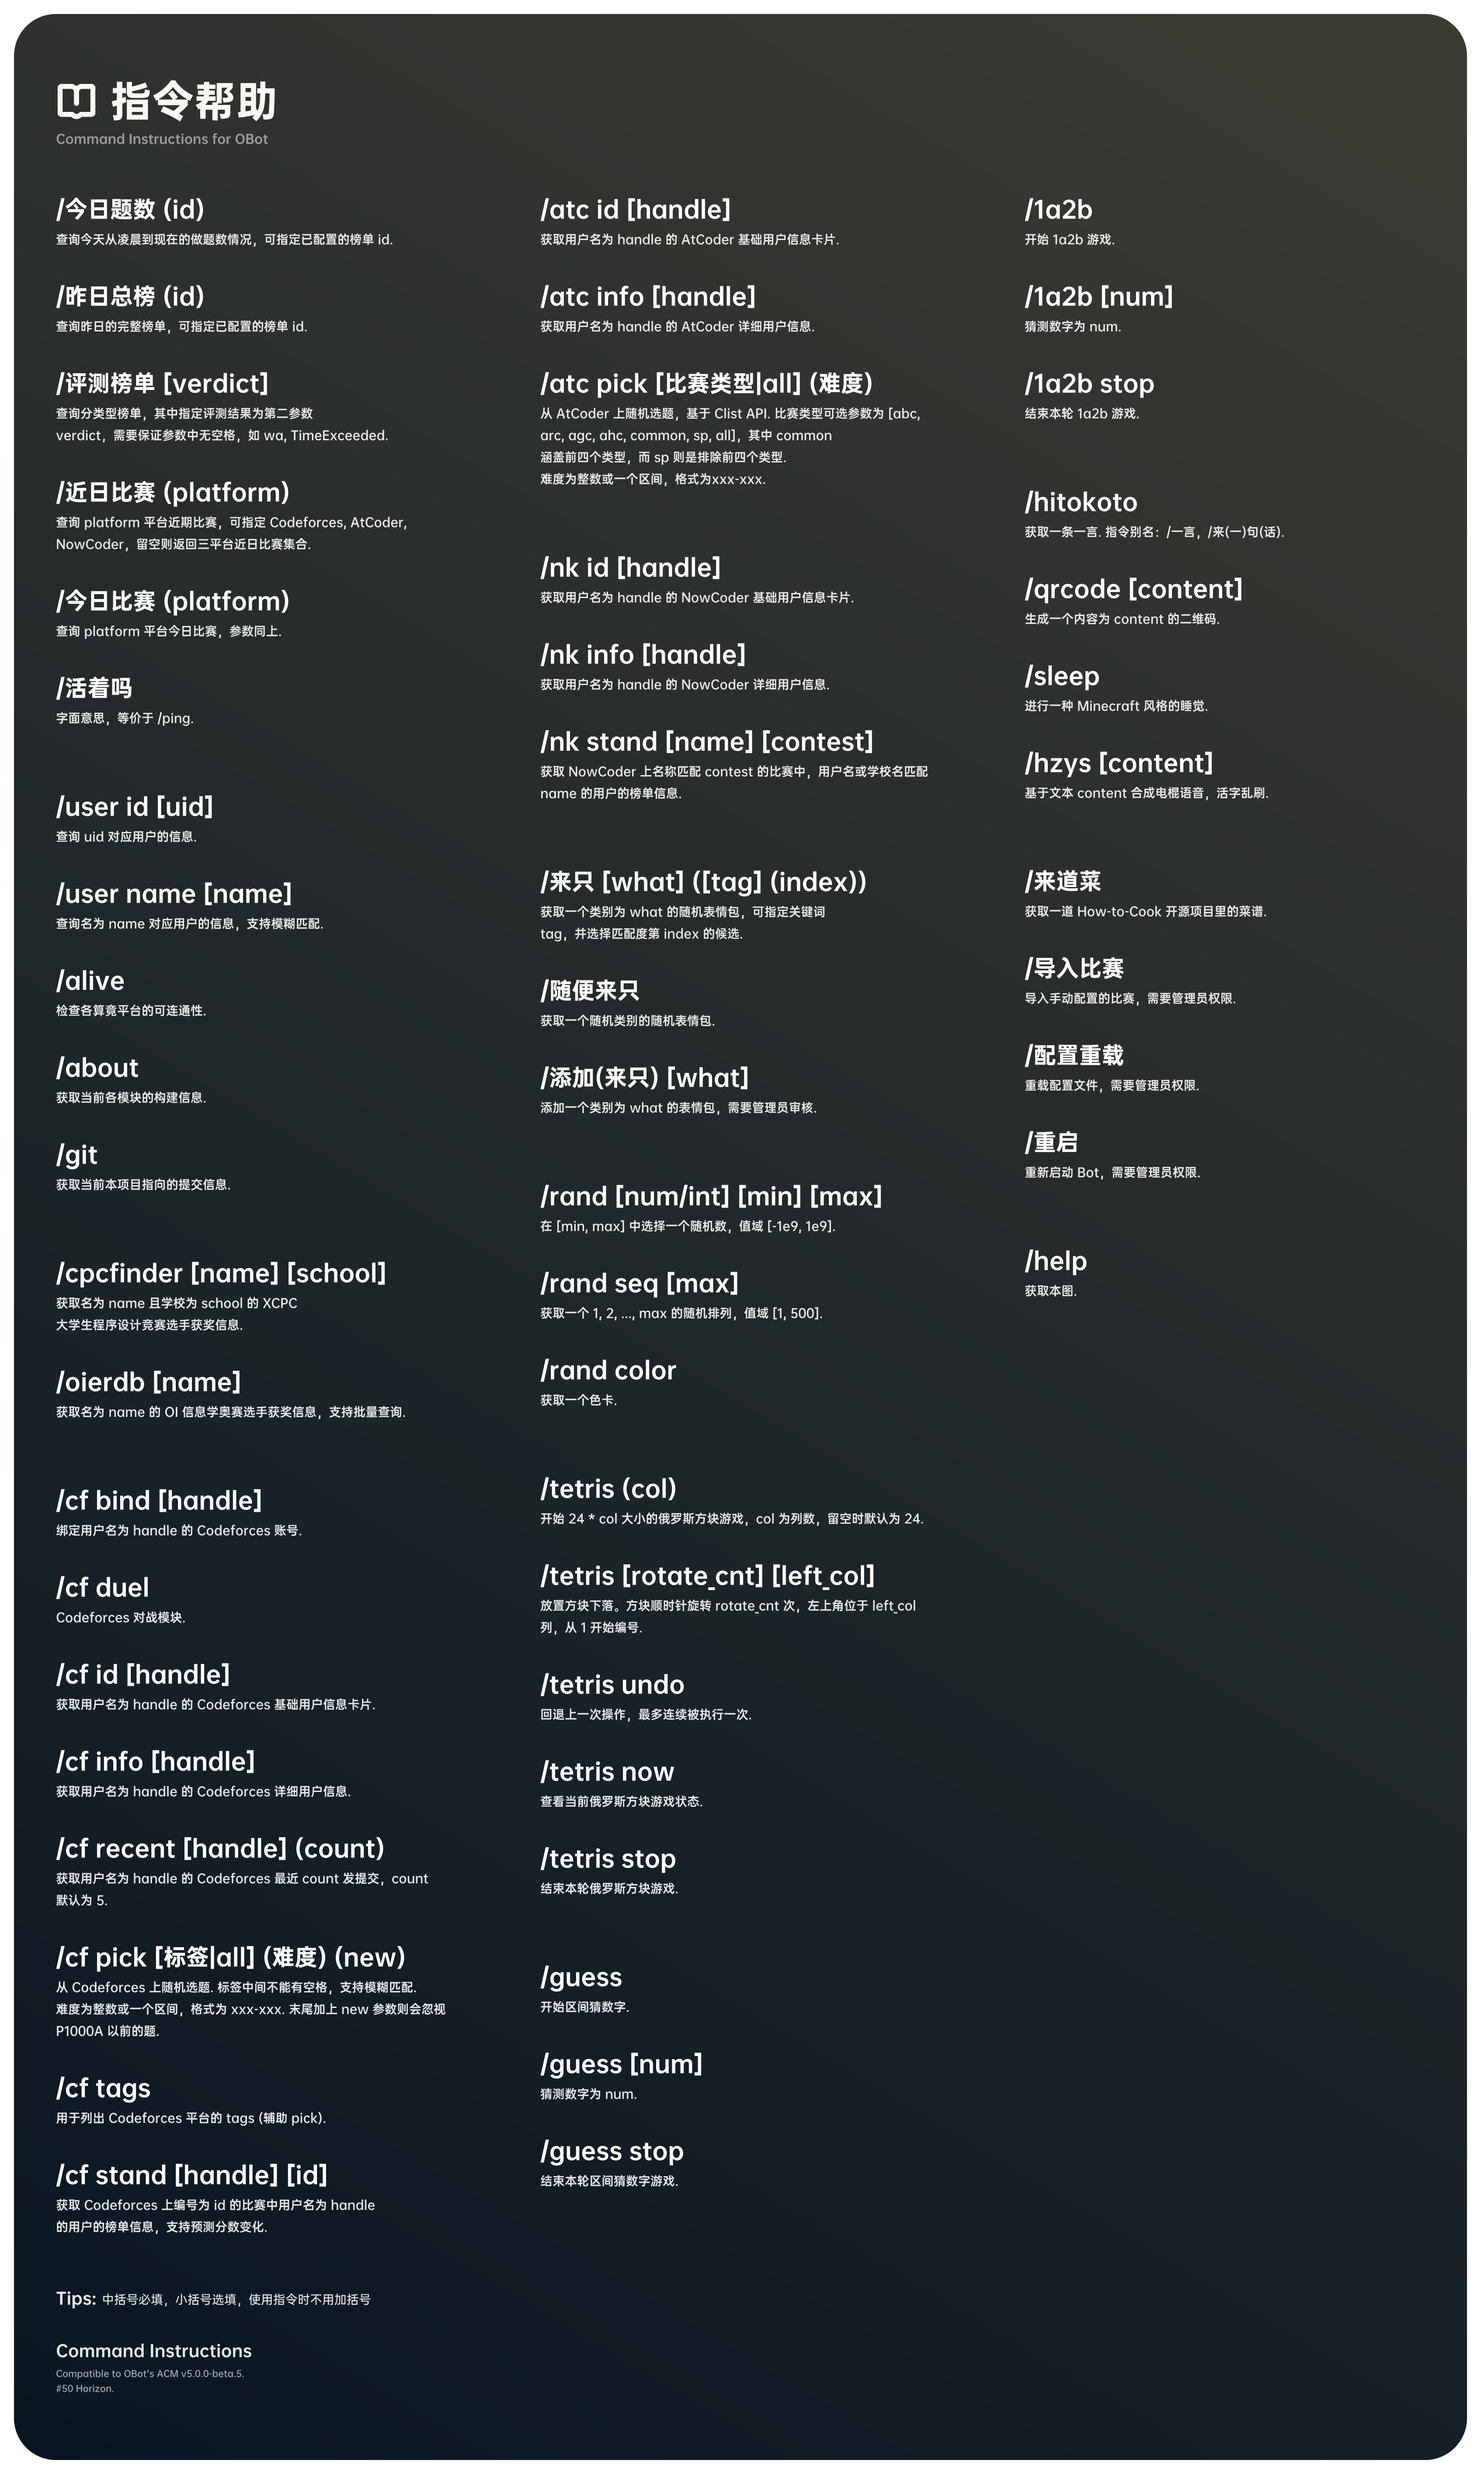
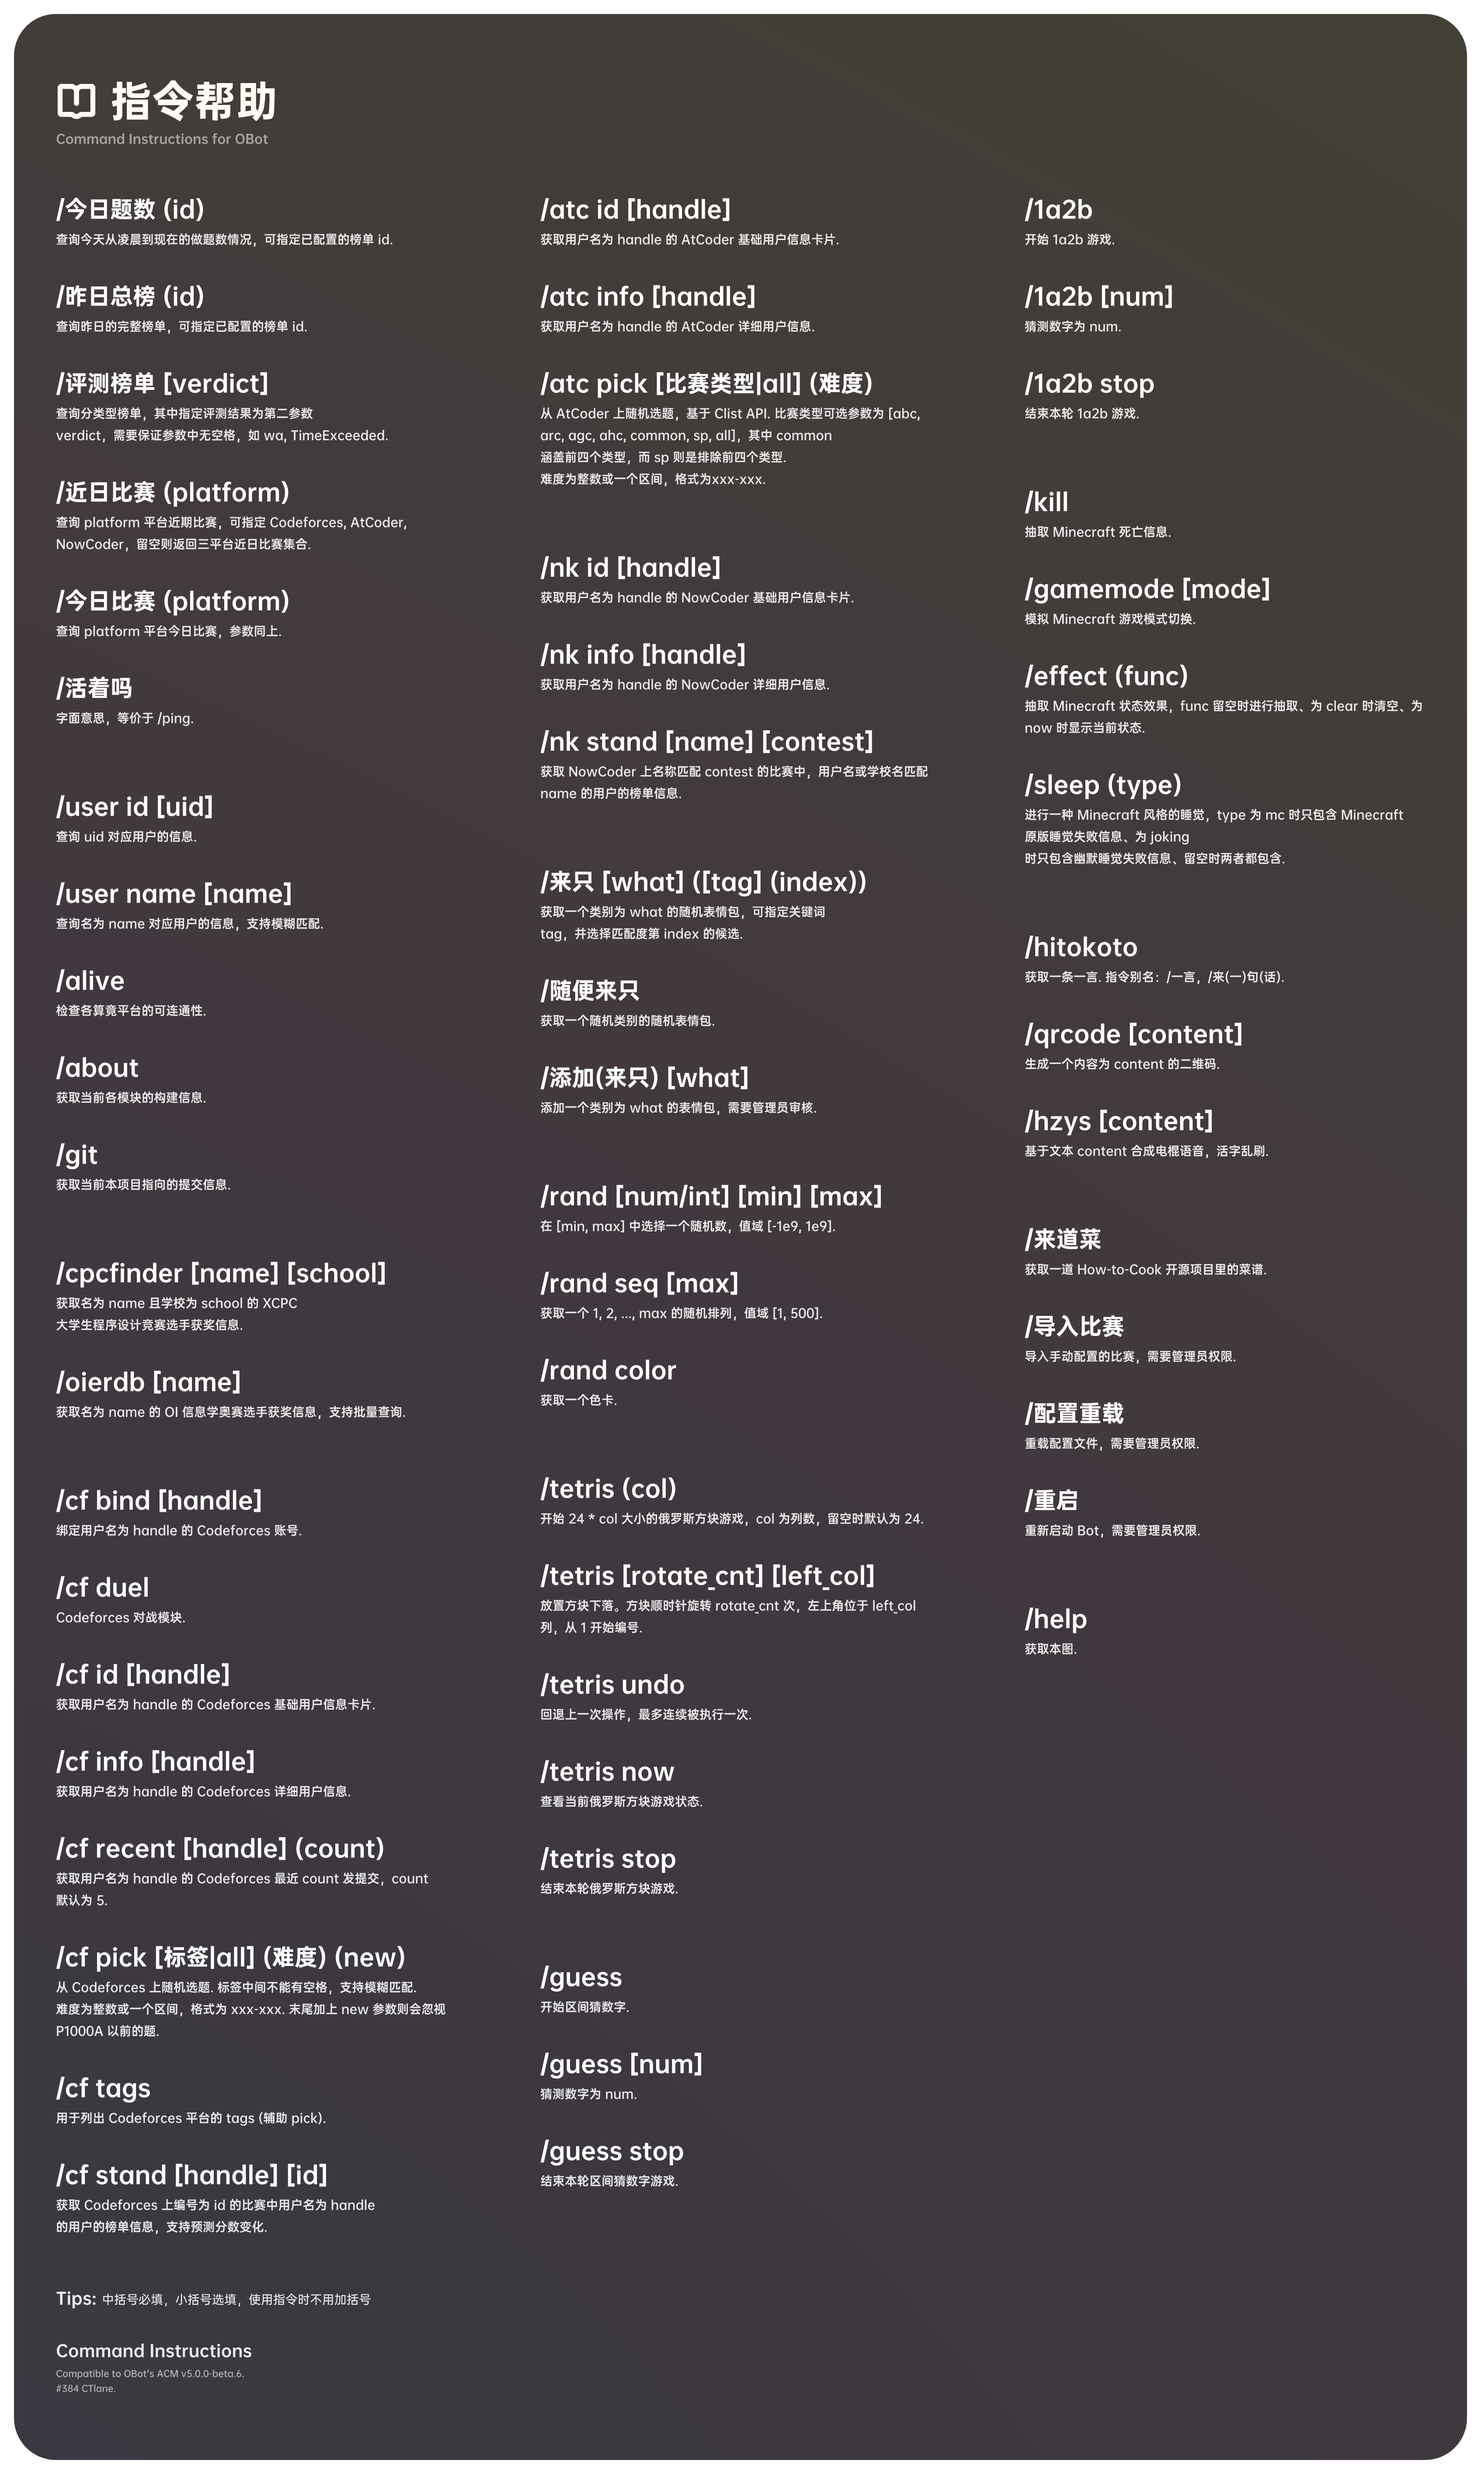
build(Core): 更新版本

diff --git a/src/core/constants.py b/src/core/constants.py
@@ -96,7 +96,7 @@ class Constants:
     log = logging.get_logger()
     botpy_conf, role_conf, modules_conf = (_load_conf(os.path.join(_project_dir, "config.json")))
 
-    core_version = "v5.0.0-beta.5"
+    core_version = "v5.0.0-beta.6"
     git_commit = _get_git_commit()
 
     key_words = [
@@ -125,7 +125,8 @@ class Constants:
         [["好"], ["好"]],
         [["掐楼", "ciallo"], ["Ciallo~", "柚子厨蒸鹅心"]],
         [["ready", "准备"], ["你是准备吗", "我准备好了"]],
-        [["在哪"], ["在亚特兰蒂斯", "在海下面", "在你背后", "在哪"]]
+        [["在哪"], ["在亚特兰蒂斯", "在海下面", "在你背后", "在哪"]],
+        [["何意味"], ["何意味", "何异味", "合味道"]]
     ]
 
     modal_words = ["喵", "呢", "捏", "qaq"]
@@ -208,10 +209,17 @@ class Constants:
             Help("/1a2b [num]", "猜测数字为 num."),
             Help("/1a2b stop", "结束本轮 1a2b 游戏.")
         ],
+        'mc': [
+            Help("/kill", "抽取 Minecraft 死亡信息."),
+            Help("/gamemode [mode]", "模拟 Minecraft 游戏模式切换."),
+            Help("/effect (func)", "抽取 Minecraft 状态效果，func 留空时进行抽取、为 clear 时清空、为 now 时显示当前状态."),
+            Help("/sleep (type)",
+                 "进行一种 Minecraft 风格的睡觉，type 为 mc 时只包含 Minecraft 原版睡觉失败信息、"
+                 "为 joking 时只包含幽默睡觉失败信息、留空时两者都包含."),
+        ],
         'misc1': [
             Help("/hitokoto", "获取一条一言. 指令别名：/一言，/来(一)句(话)."),
             Help("/qrcode [content]", "生成一个内容为 content 的二维码."),
-            Help("/sleep", "进行一种 Minecraft 风格的睡觉."),
             Help("/hzys [content]", "基于文本 content 合成电棍语音，活字乱刷.")
         ],
         'misc2': [

diff --git a/README.md b/README.md
@@ -99,6 +99,8 @@ python entry.py    # 直接运行
 
 - 电棍活字印刷（并非实用）；
 
+- Minecraft 状态文字模拟器；
+
 ### 交互式小游戏
 
 - 下落式俄罗斯方块；
